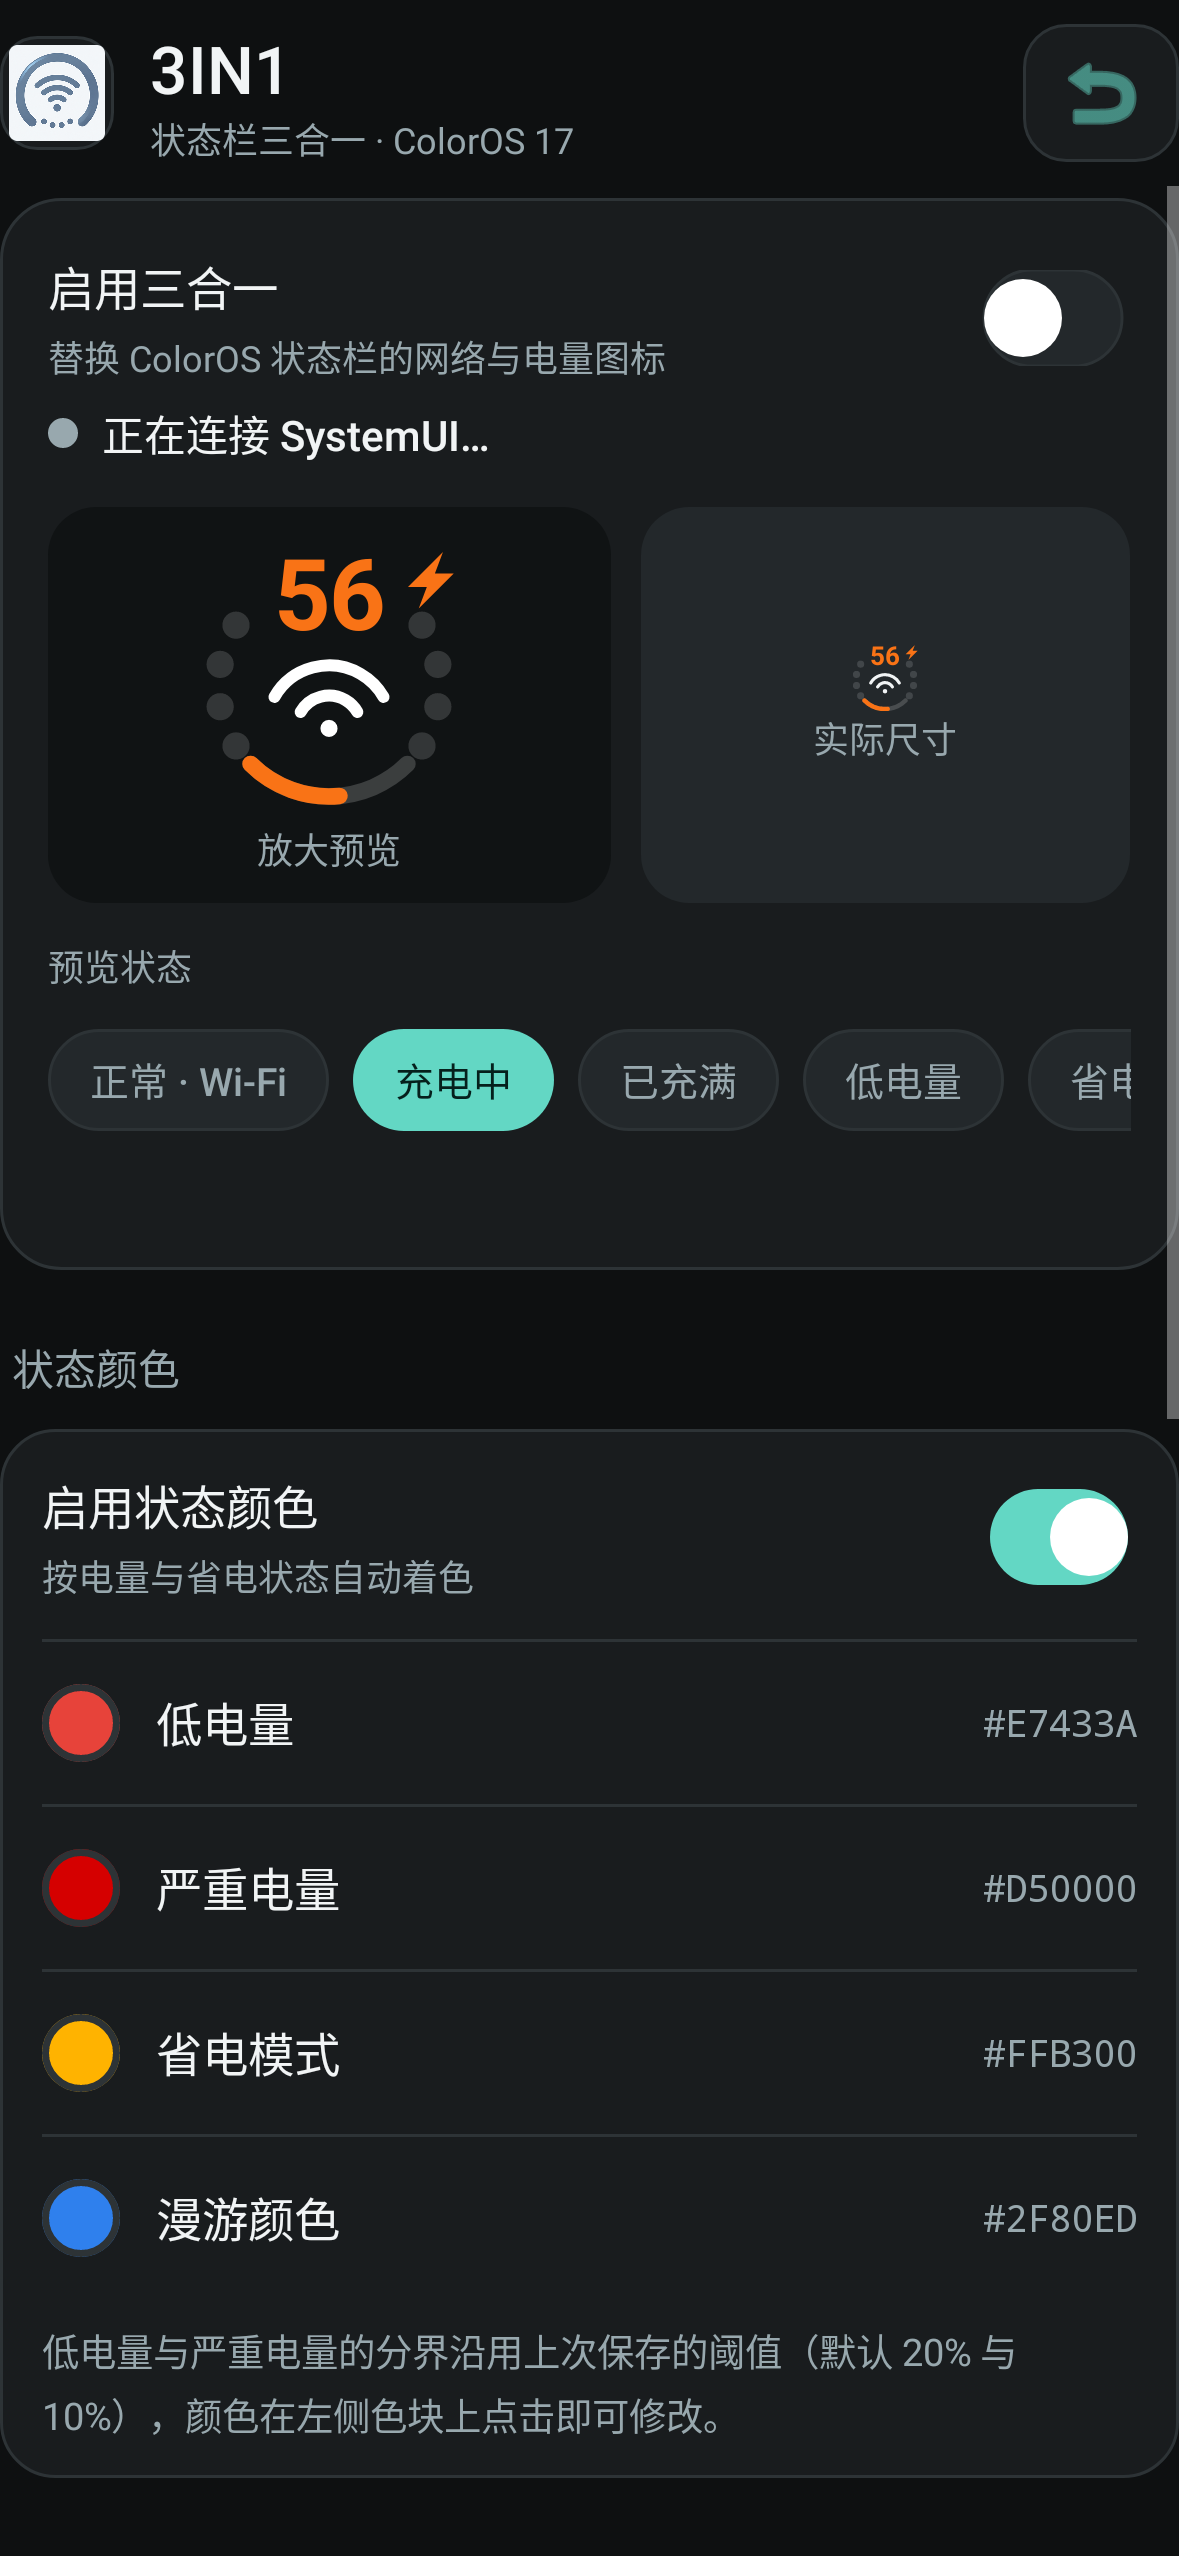
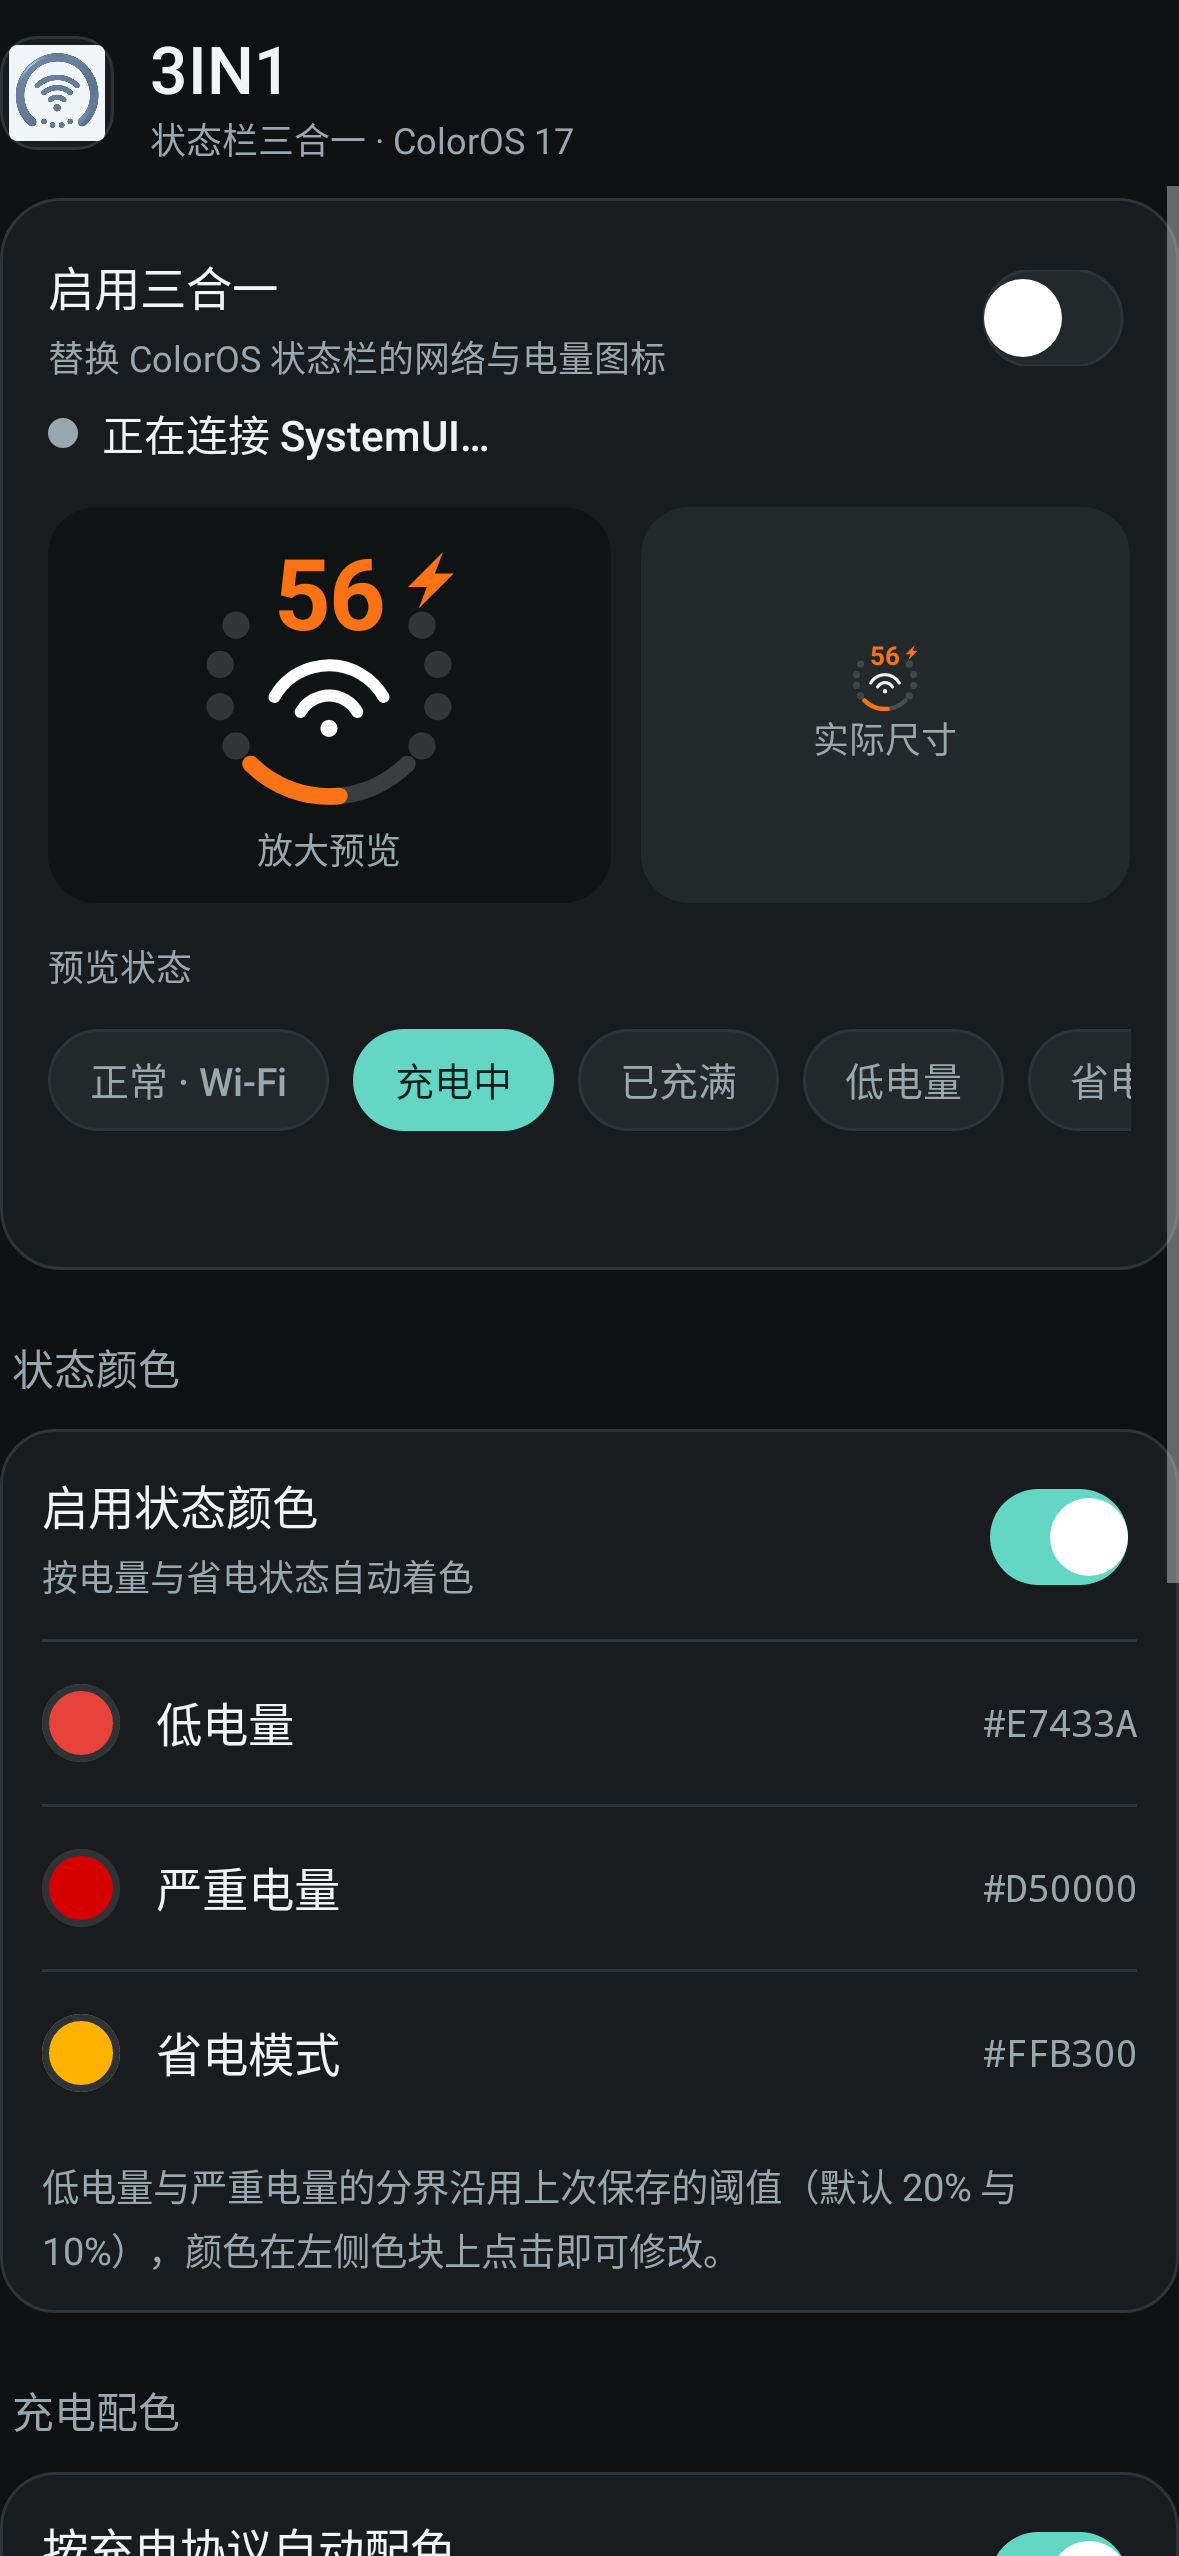
feat(ui): 去掉漫游色、自定义充电色与两个重置按钮

diff --git a/app/src/main/java/io/github/threeinone/ui/MainActivity.kt b/app/src/main/java/io/github/threeinone/ui/MainActivity.kt
@@ -141,16 +141,6 @@ class MainActivity : Activity() {
         })
         titles.addView(label("状态栏三合一 · ColorOS 17", 12f, palette.muted))
         bar.addView(titles, LinearLayout.LayoutParams(0, -2, 1f))
-
-        bar.addView(iconButton(android.R.drawable.ic_menu_revert, "恢复默认设置") {
-            AlertDialog.Builder(this).setTitle("恢复默认设置？")
-                .setMessage("恢复全部外观参数并关闭系统图标替换。")
-                .setNegativeButton("取消", null)
-                .setPositiveButton("恢复") { _, _ ->
-                    prefs.edit().clear().putBoolean(PreferenceMigration.MARKER, true).apply()
-                    buildPage(); scheduleSave()
-                }.show()
-        })
         return bar.apply {
             layoutParams = LinearLayout.LayoutParams(-1, dp(62))
             setPadding(0, dp(8), 0, dp(8))
@@ -261,18 +251,16 @@ class MainActivity : Activity() {
             colorRow("低电量", "lowColor", 0xFFE7433A.toInt())
             colorRow("严重电量", "criticalColor", 0xFFD50000.toInt())
             colorRow("省电模式", "saverColor", 0xFFFFB300.toInt())
-            colorRow("漫游颜色", "roamingColor", 0xFF2F80ED.toInt())
             hint("低电量与严重电量的分界沿用上次保存的阈值（默认 20% 与 10%），" +
                 "颜色在左侧色块上点击即可修改。")
         }
 
         section("充电配色").apply {
-            switchRow("按充电协议自动配色", "关闭后统一使用下方自定义充电色", "chargeColorAuto", true)
+            switchRow("按充电协议自动配色", "关闭后统一使用普通 / 慢充的橙色", "chargeColorAuto", true)
             colorRow("原装充电器 · 紫", "voocColor", 0xFF9C6BFF.toInt())
             colorRow("第三方 UFCS · 绿", "ufcsColor", 0xFF2ECC71.toInt())
             colorRow("PPS 充电器 · 蓝", "ppsColor", 0xFF3B82F6.toInt())
             colorRow("普通 / 慢充 · 橙", "unknownColor", 0xFFF97316.toInt())
-            colorRow("自定义充电色", "chargingColor", 0xFF1CB753.toInt())
             hint("自动模式按充电协议上色：原装一加充电器紫、第三方 UFCS 绿、PPS 蓝、" +
                 "普通与慢充橙。原装识别依据充电合同的最大功率 120W —— 原装头协商到该上限，" +
                 "第三方充电器通常只有 30W 上下。")
@@ -291,19 +279,6 @@ class MainActivity : Activity() {
     }
 
     private fun buildFooter() {
-        content.addView(
-            Button(this).apply {
-                text = "恢复原图标"
-                textSize = 15f
-                setTextColor(palette.ink)
-                background = rounded(palette.surface, 16f, palette.stroke)
-                isAllCaps = false
-                setOnClickListener {
-                    prefs.edit().putBoolean("enabled", false).apply(); buildPage(); scheduleSave()
-                }
-            },
-            LinearLayout.LayoutParams(-1, dp(52)).apply { topMargin = dp(16) }
-        )
         content.addView(
             Button(this).apply {
                 text = "关于"
